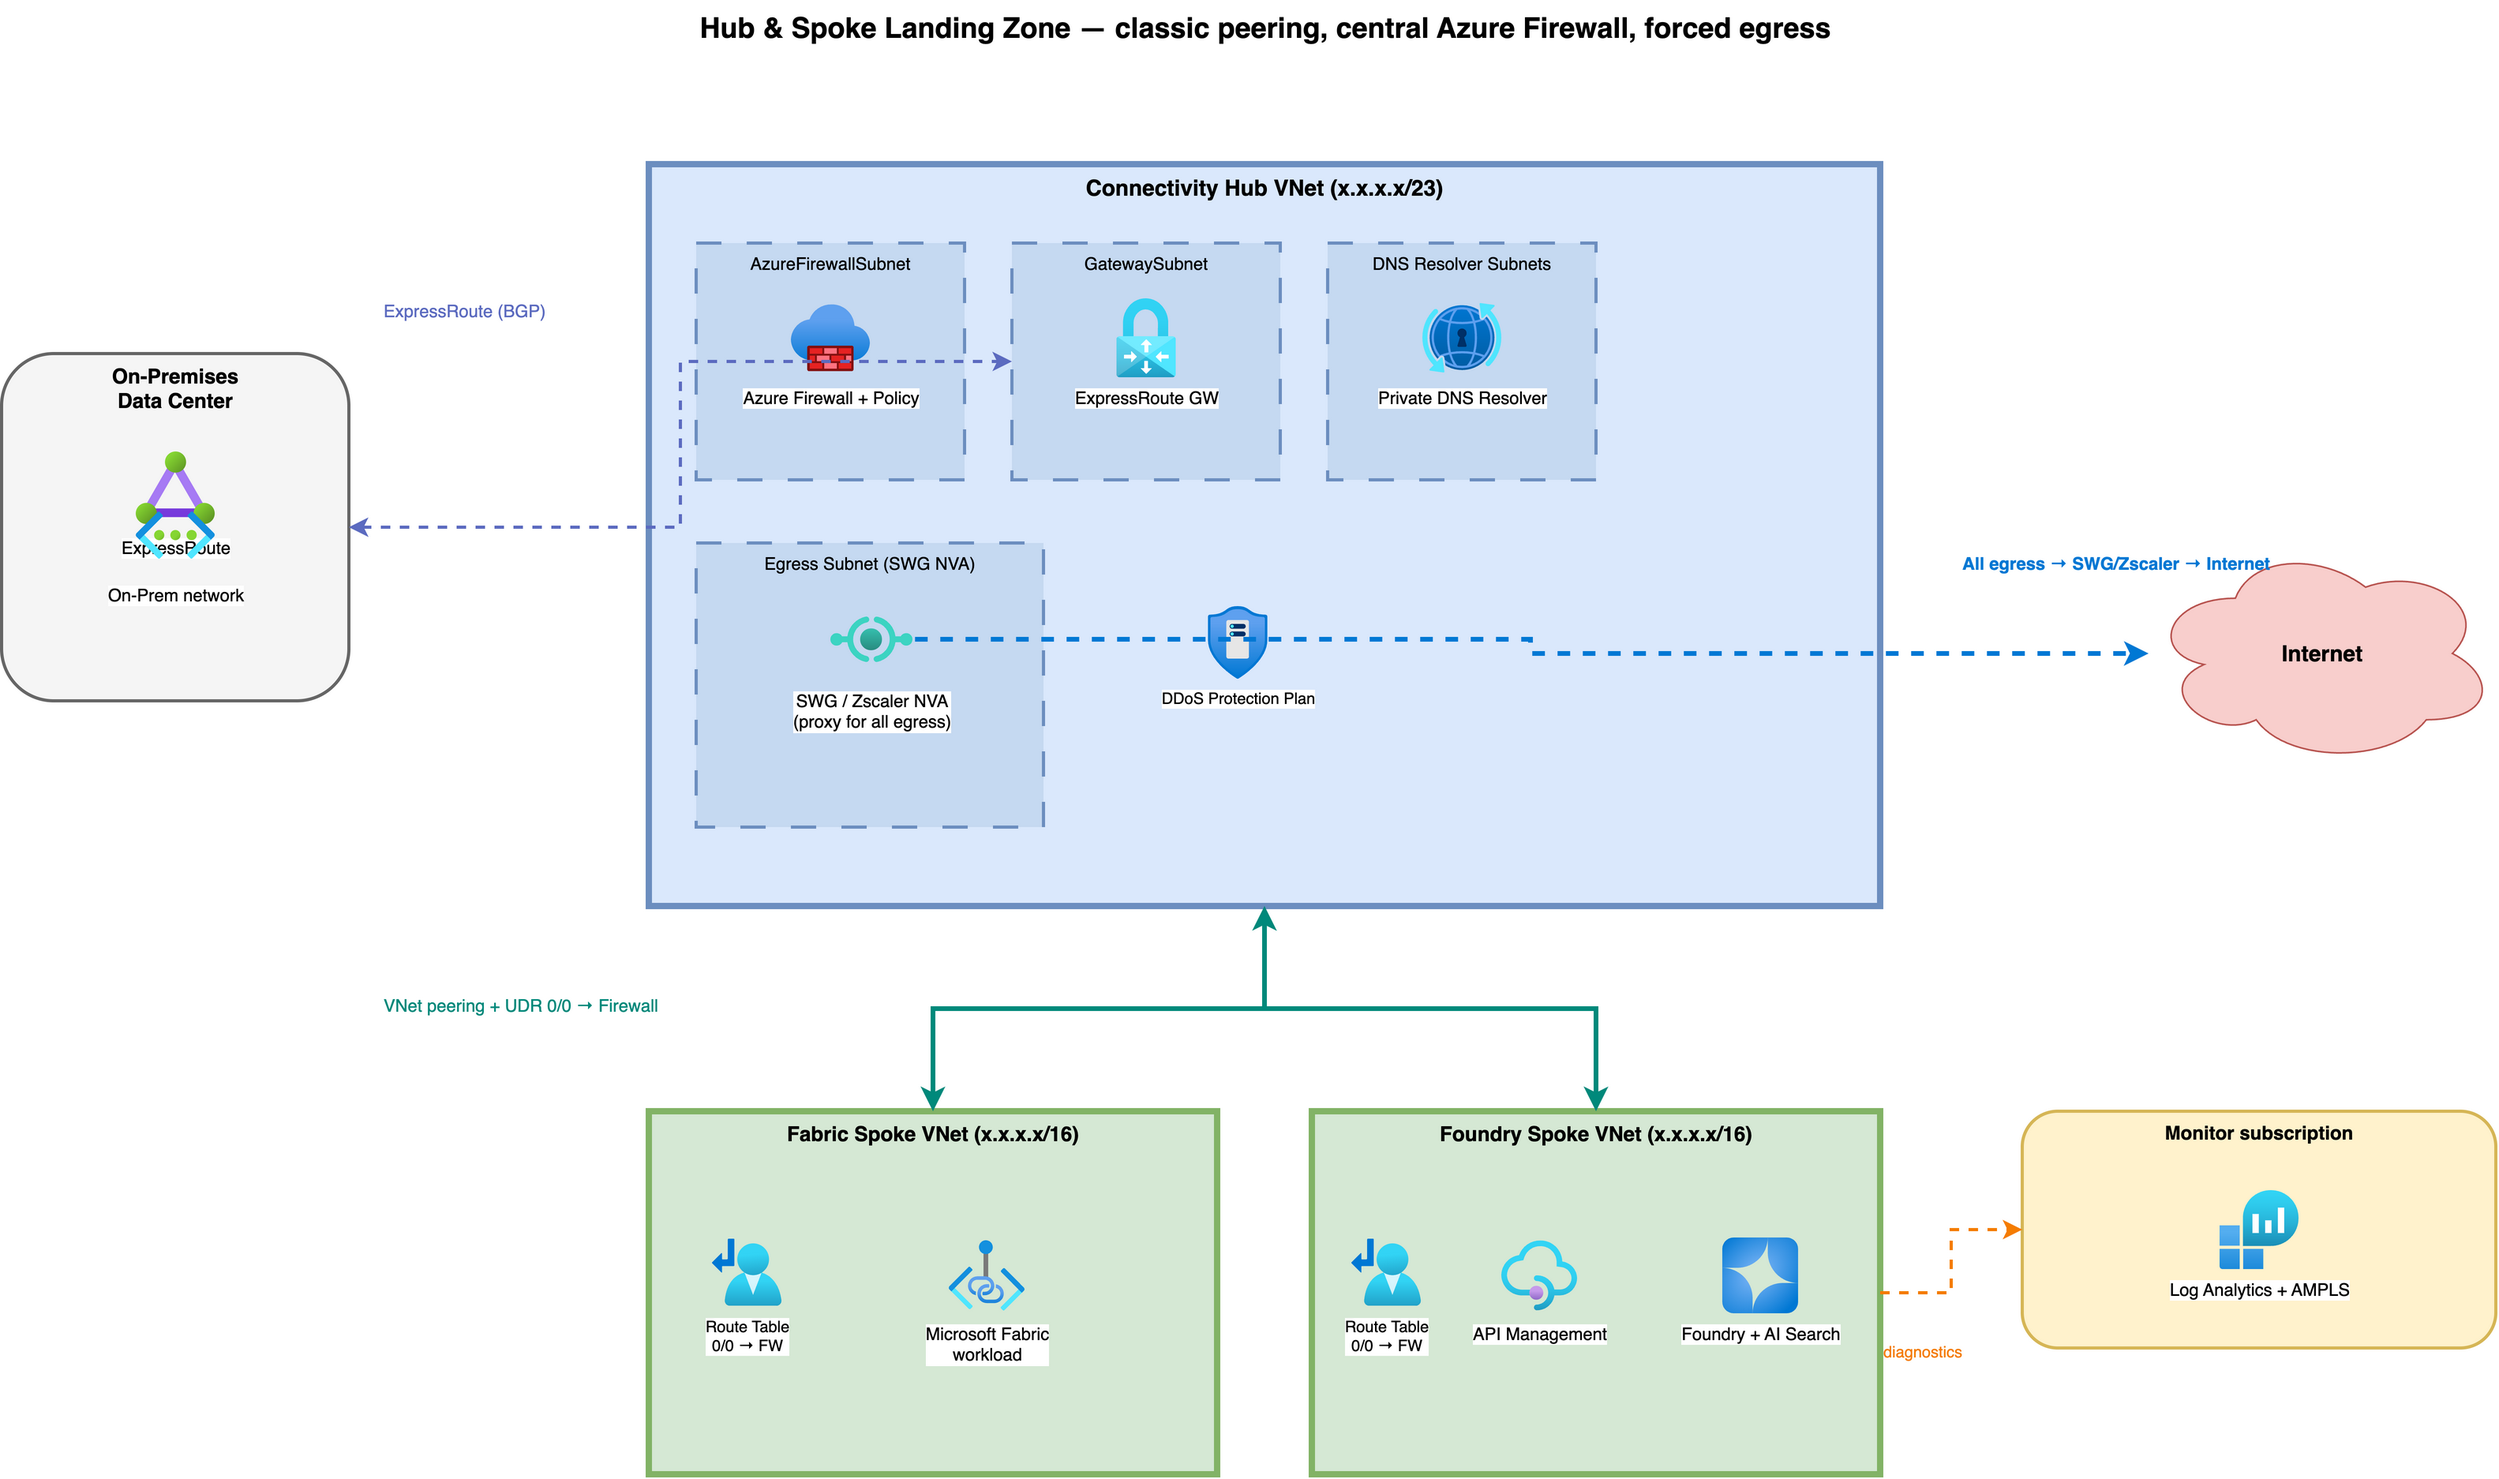
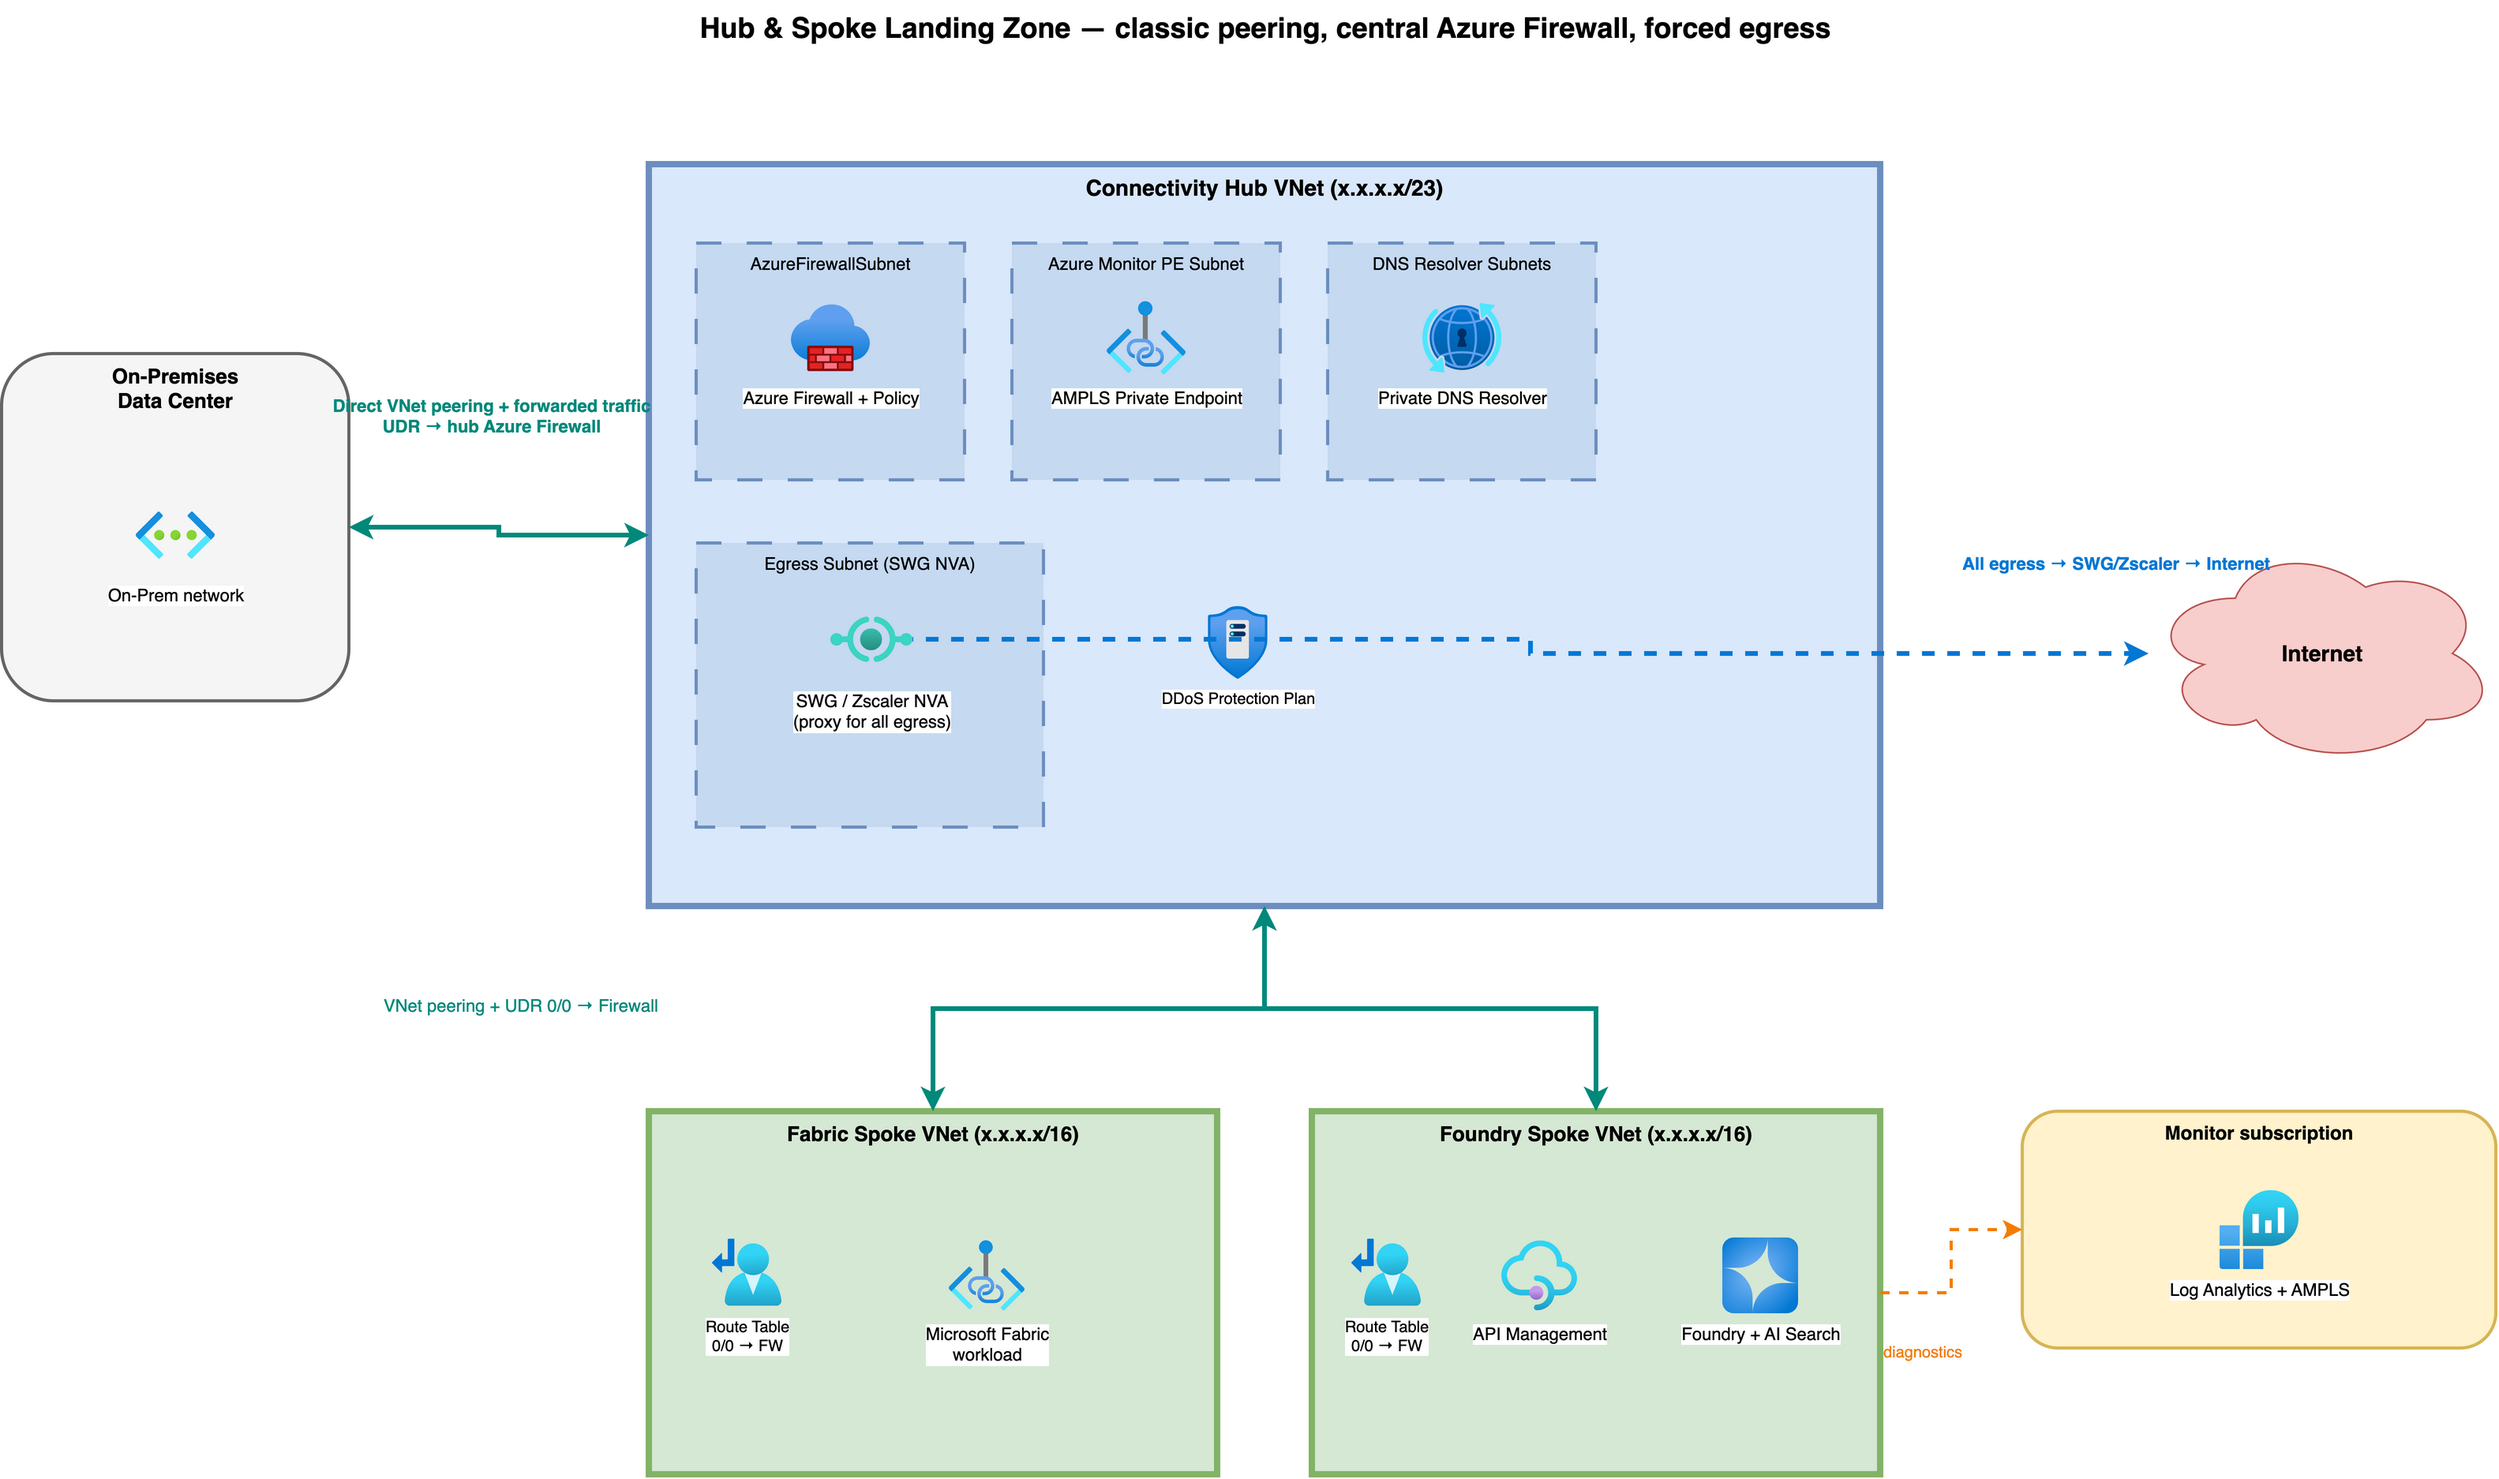
feat(network): own on-prem firewall-transit peering in Terraform
- Import direct on-prem/hub peerings and workload UDR into onprem-lab state
- Remove the unused VPN-era GatewaySubnet and obsolete screenshots
- Replace ExpressRoute/GatewaySubnet topology with peering and AMPLS
- Align deployment guidance and Terraform comments with the live design

diff --git a/workloads/onprem-lab/README.md b/workloads/onprem-lab/README.md
@@ -1,8 +1,8 @@
 # Simulated On-Premises SQL and OPDG Lab
 
 This Terraform root is an optional **sandbox-only** dependency for the Fabric
-runbook. It creates two private Windows VMs inside an existing simulated
-on-premises VNet:
+runbook. It connects an existing simulated on-premises VNet to the hub and
+creates two private Windows VMs in its workload subnet:
 
 - SQL Server 2022 Developer VM.
 - On-premises Data Gateway (OPDG) staging VM.
@@ -14,19 +14,25 @@ capacity testing.
 
 ## Prerequisites
 
-The root does not create the surrounding on-premises simulation. Before plan,
-the following must already exist:
+The root does not create the surrounding on-premises VNet, NAT/Bastion services,
+or private runner. Before plan, the following must already exist:
 
 - Resource group, VNet, and workload subnet named by the input variables.
+- Layer 1 hub VNet and Azure Firewall.
 - Non-overlapping static addresses for SQL and OPDG.
 - Outbound connectivity for Windows/PowerShell/gateway downloads and OPDG cloud
   dependencies.
-- Hybrid route and DNS path to the Fabric workspace Private Endpoint.
+- DNS forwarding to the hub Private DNS Resolver.
 - Private Terraform backend and runner with managed identity access.
 
 ## Resources
 
-A fresh reference deployment creates 14 resources:
+A fresh reference deployment creates 20 resources:
+
+- Direct `onprem-to-hub` and `hub-to-onprem` VNet peerings with forwarded
+  traffic enabled and no gateway transit.
+- Workload route table with `0.0.0.0/0` and the Fabric spoke prefix routed to
+  the hub Azure Firewall, plus the workload-subnet association.
 
 - Two NIC NSGs and two NIC-to-NSG associations.
 - Two NICs with static private IPs.
@@ -45,6 +51,17 @@ The SQL bootstrap configures TCP 1433, mixed authentication, database
 
 Terraform does not perform the organizational sign-in, recovery-key entry, or
 OPDG tenant registration.
+
+### Existing lab adoption (2026-07-21)
+
+The reference lab originally created its replacement peering and UDR manually
+after removing the unsuccessful S2S VPN simulation. The two peerings, route
+table, two routes, and subnet association were imported into this root without
+recreation. The only applied change added the standard Terraform tags to the
+route table. The empty VPN-era `GatewaySubnet` was then deleted after confirming
+that no landing-zone virtual-network gateway, local-network gateway, connection,
+or subnet IP configuration depended on it. The final detailed-exit-code plan
+returned `0` (**No changes**).
 
 ## Deploy
 
@@ -92,6 +109,10 @@ terminal recordings. Rotate the lab credential if exposure is suspected.
 - `C:\FabricGatewayInstaller.ready` and
   `C:\Installers\GatewayInstall.exe` exist.
 - OPDG reaches SQL and all five private Fabric workspace endpoints.
+- Both on-prem/hub peerings are `Connected` / `FullyInSync` with forwarded
+  traffic enabled.
+- The workload subnet routes `0.0.0.0/0` and the Fabric spoke prefix through
+  the hub firewall private IP.
 - Post-apply Terraform plan returns exit code `0`.
 
 Continue with Step 10 of [../../DEPLOYMENT-GUIDE.md](../../DEPLOYMENT-GUIDE.md)

diff --git a/DEPLOYMENT-GUIDE.md b/DEPLOYMENT-GUIDE.md
@@ -570,9 +570,10 @@ Expected final detailed exit code: `0` (`No changes`). Review
 [platform/DEPLOYMENT.md](platform/DEPLOYMENT.md) for Layer 1 screenshots and the
 as-built inventory.
 
-After Stage 20, the network team must establish on-prem to hub connectivity (VNet
-peering with firewall transit) and approved Firewall/SWG rules because this
-repository does not.
+After Stage 20, the production network team must establish the customer hybrid
+path and approved Firewall/SWG rules. In the optional sandbox path,
+`workloads/onprem-lab` owns the direct on-prem-to-hub peerings and the workload
+UDR that sends the Fabric prefix and default route through the hub firewall.
 For a greenfield deployment, first apply Stage 20 with firewall diagnostics
 disabled, apply Stage 40, then re-apply Stage 20 with diagnostics enabled. After
 Stage 40, verify the private Log Analytics workspace, AMPLS scoped-resource
@@ -1207,8 +1208,9 @@ worksheet.
 #### Path B: optional lab simulation only
 
 Use this path only for a sandbox. It adds one SQL Developer VM and one OPDG VM
-to an **existing** VNet/subnet named in the private variables. It does not create
-the simulated on-premises VNet, hub peering, NAT, or private runner.
+to an **existing** VNet/subnet named in the private variables. It creates both
+on-prem-to-hub peerings and the workload firewall-transit UDR, but does not
+create the simulated on-premises VNet, NAT/Bastion services, or private runner.
 Read [workloads/onprem-lab/README.md](workloads/onprem-lab/README.md) before
 planning this optional root.
 
@@ -1226,7 +1228,7 @@ terraform apply onprem-lab.tfplan
 terraform plan -detailed-exitcode -var-file="$TFVARS_FILE"
 ```
 
-Reference sandbox expectation: 14 resources on first deployment and final plan
+Reference sandbox expectation: 20 resources on first deployment and final plan
 exit code `0`.
 
 **CHECK**

diff --git a/platform/DEPLOYMENT.md b/platform/DEPLOYMENT.md
@@ -100,6 +100,12 @@ gateway and no `GatewaySubnet`.
   prefix and `0.0.0.0/0` to the Azure Firewall (`10.0.0.4`), which transits/SNATs.
 - The on-prem simulation VNet (`azr-sbx-lab-0001-rg-onprem-sim`) is peered to the
   hub in both directions with forwarded traffic allowed.
+- The optional `workloads/onprem-lab` state owns both peerings, the
+  `onprem-workload-rt` route table, its default/Fabric routes, and the workload
+  subnet association. These resources were imported after the VPN simulation
+  was retired; its final Terraform plan reports no drift.
+- The unused VPN-era `GatewaySubnet` was removed from `onprem-vnet`; only the
+  `AzureBastionSubnet` and routed `workload` subnet remain.
 
 ---
 
